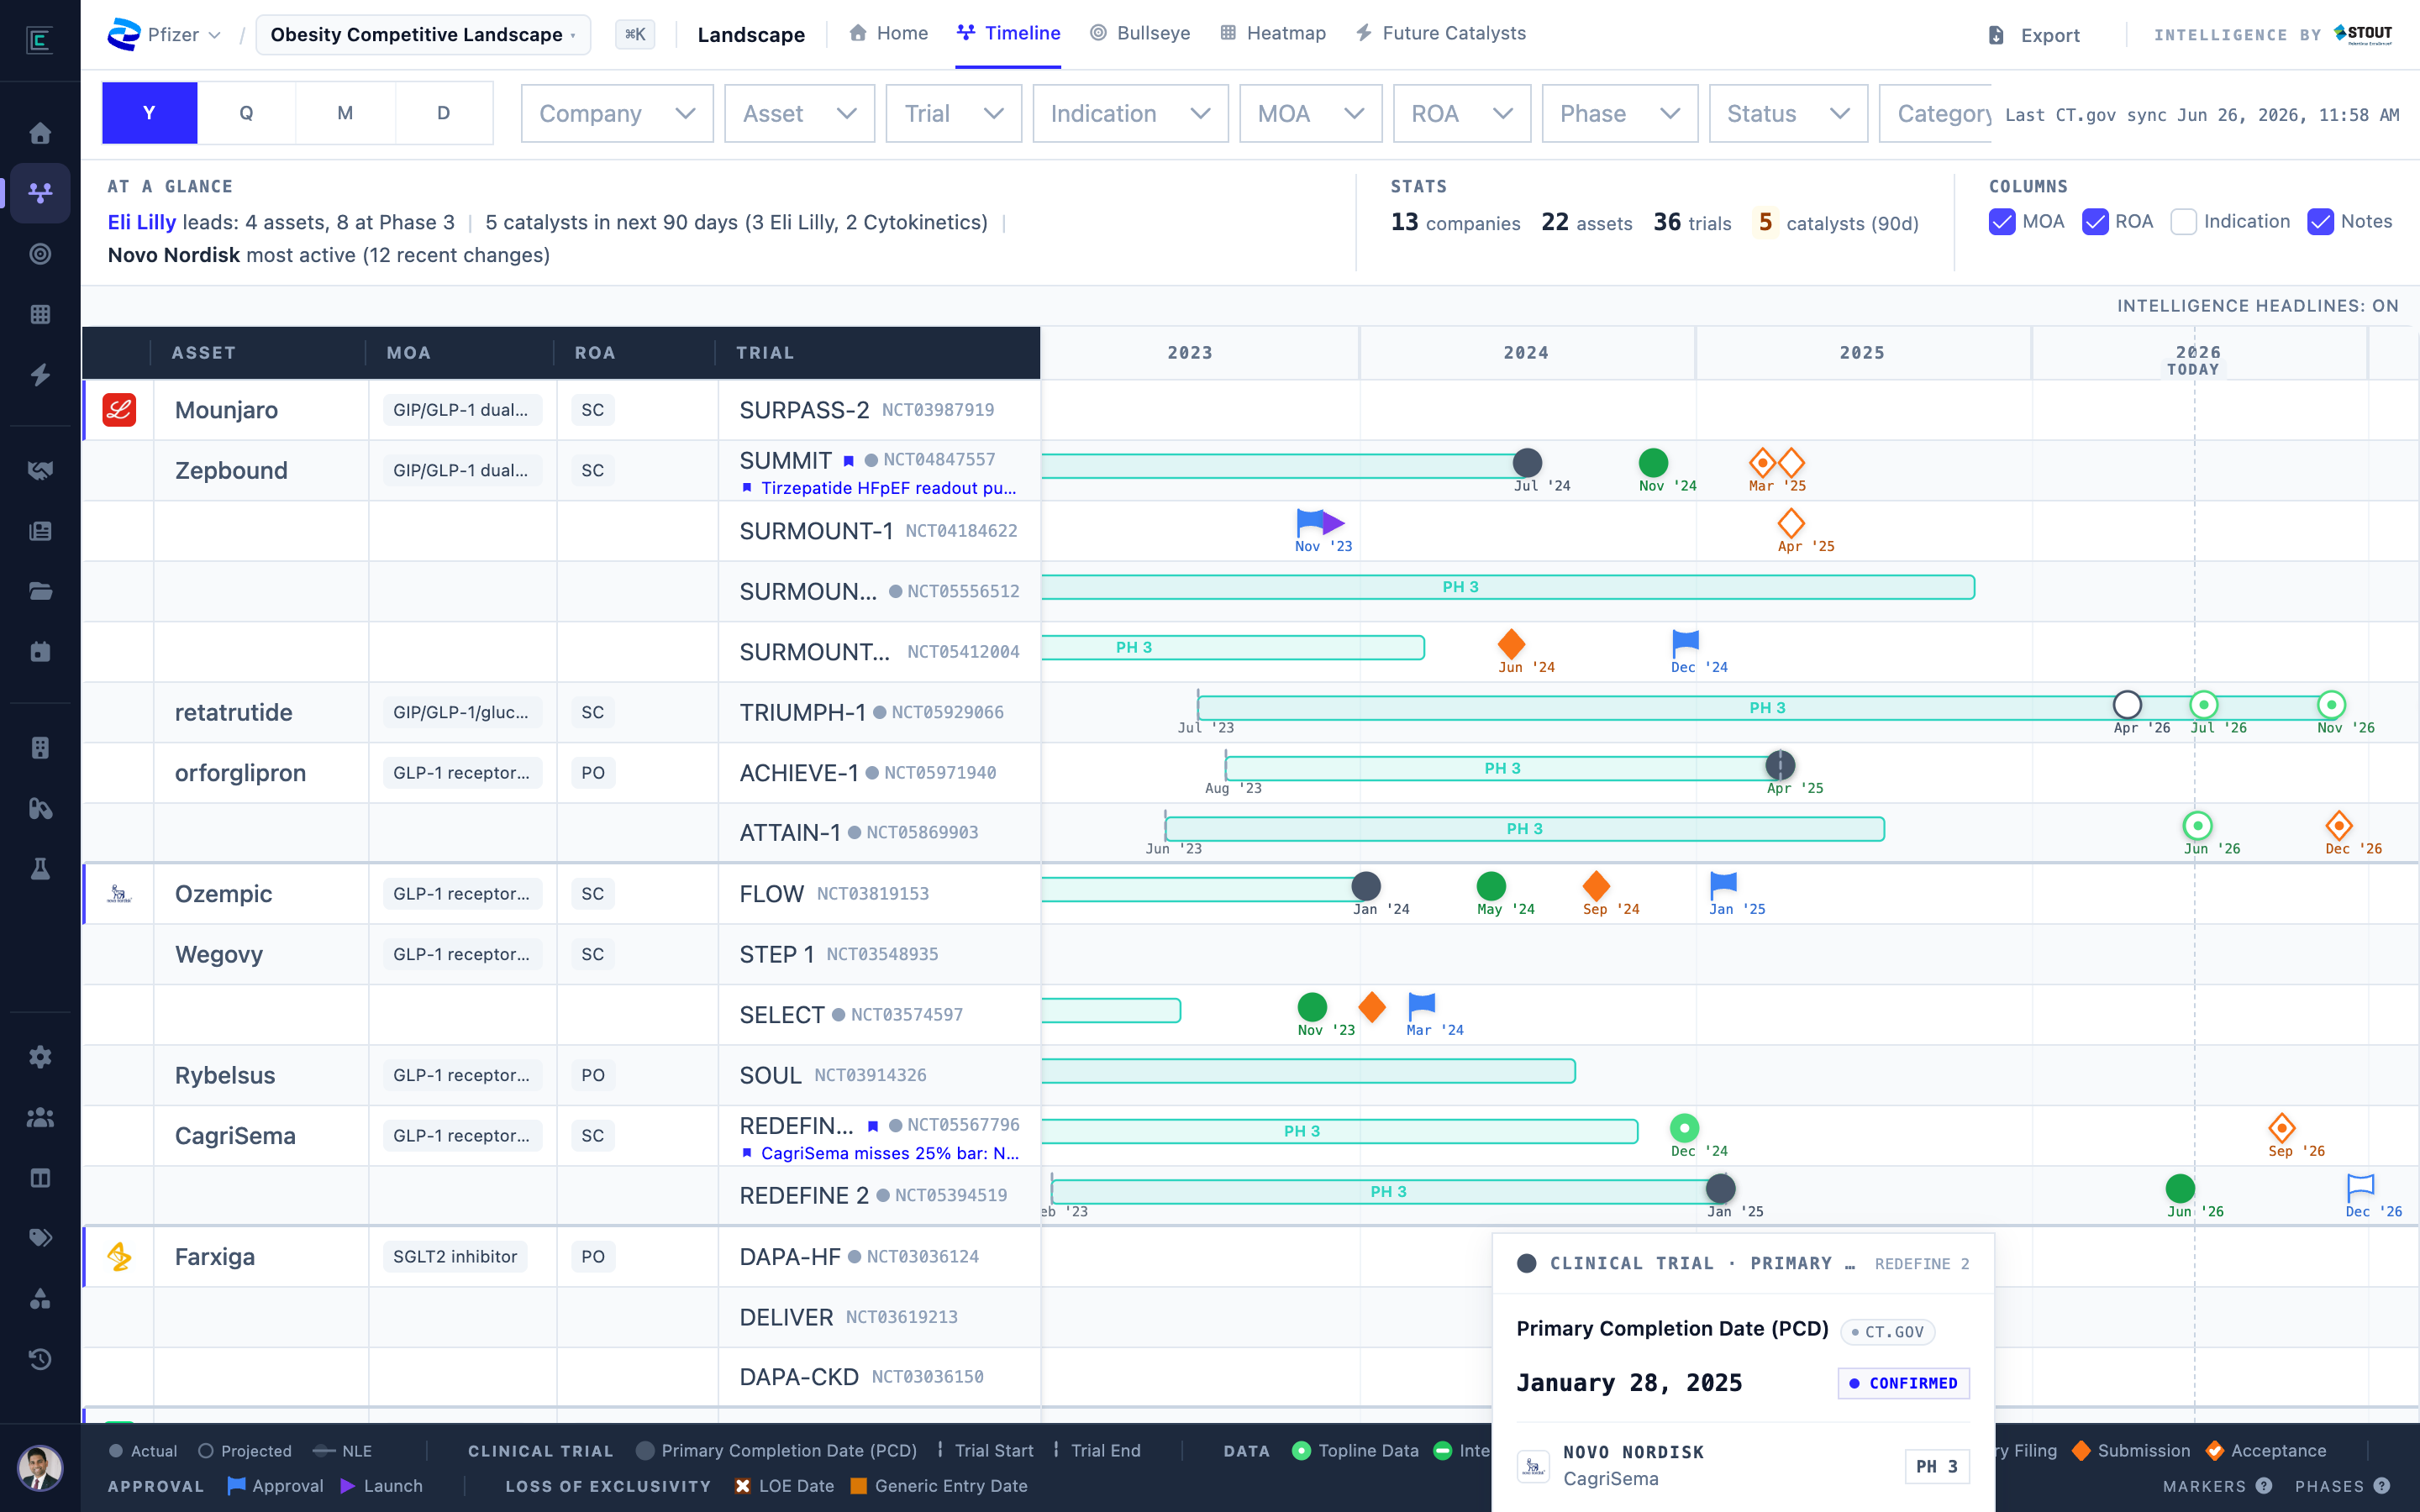
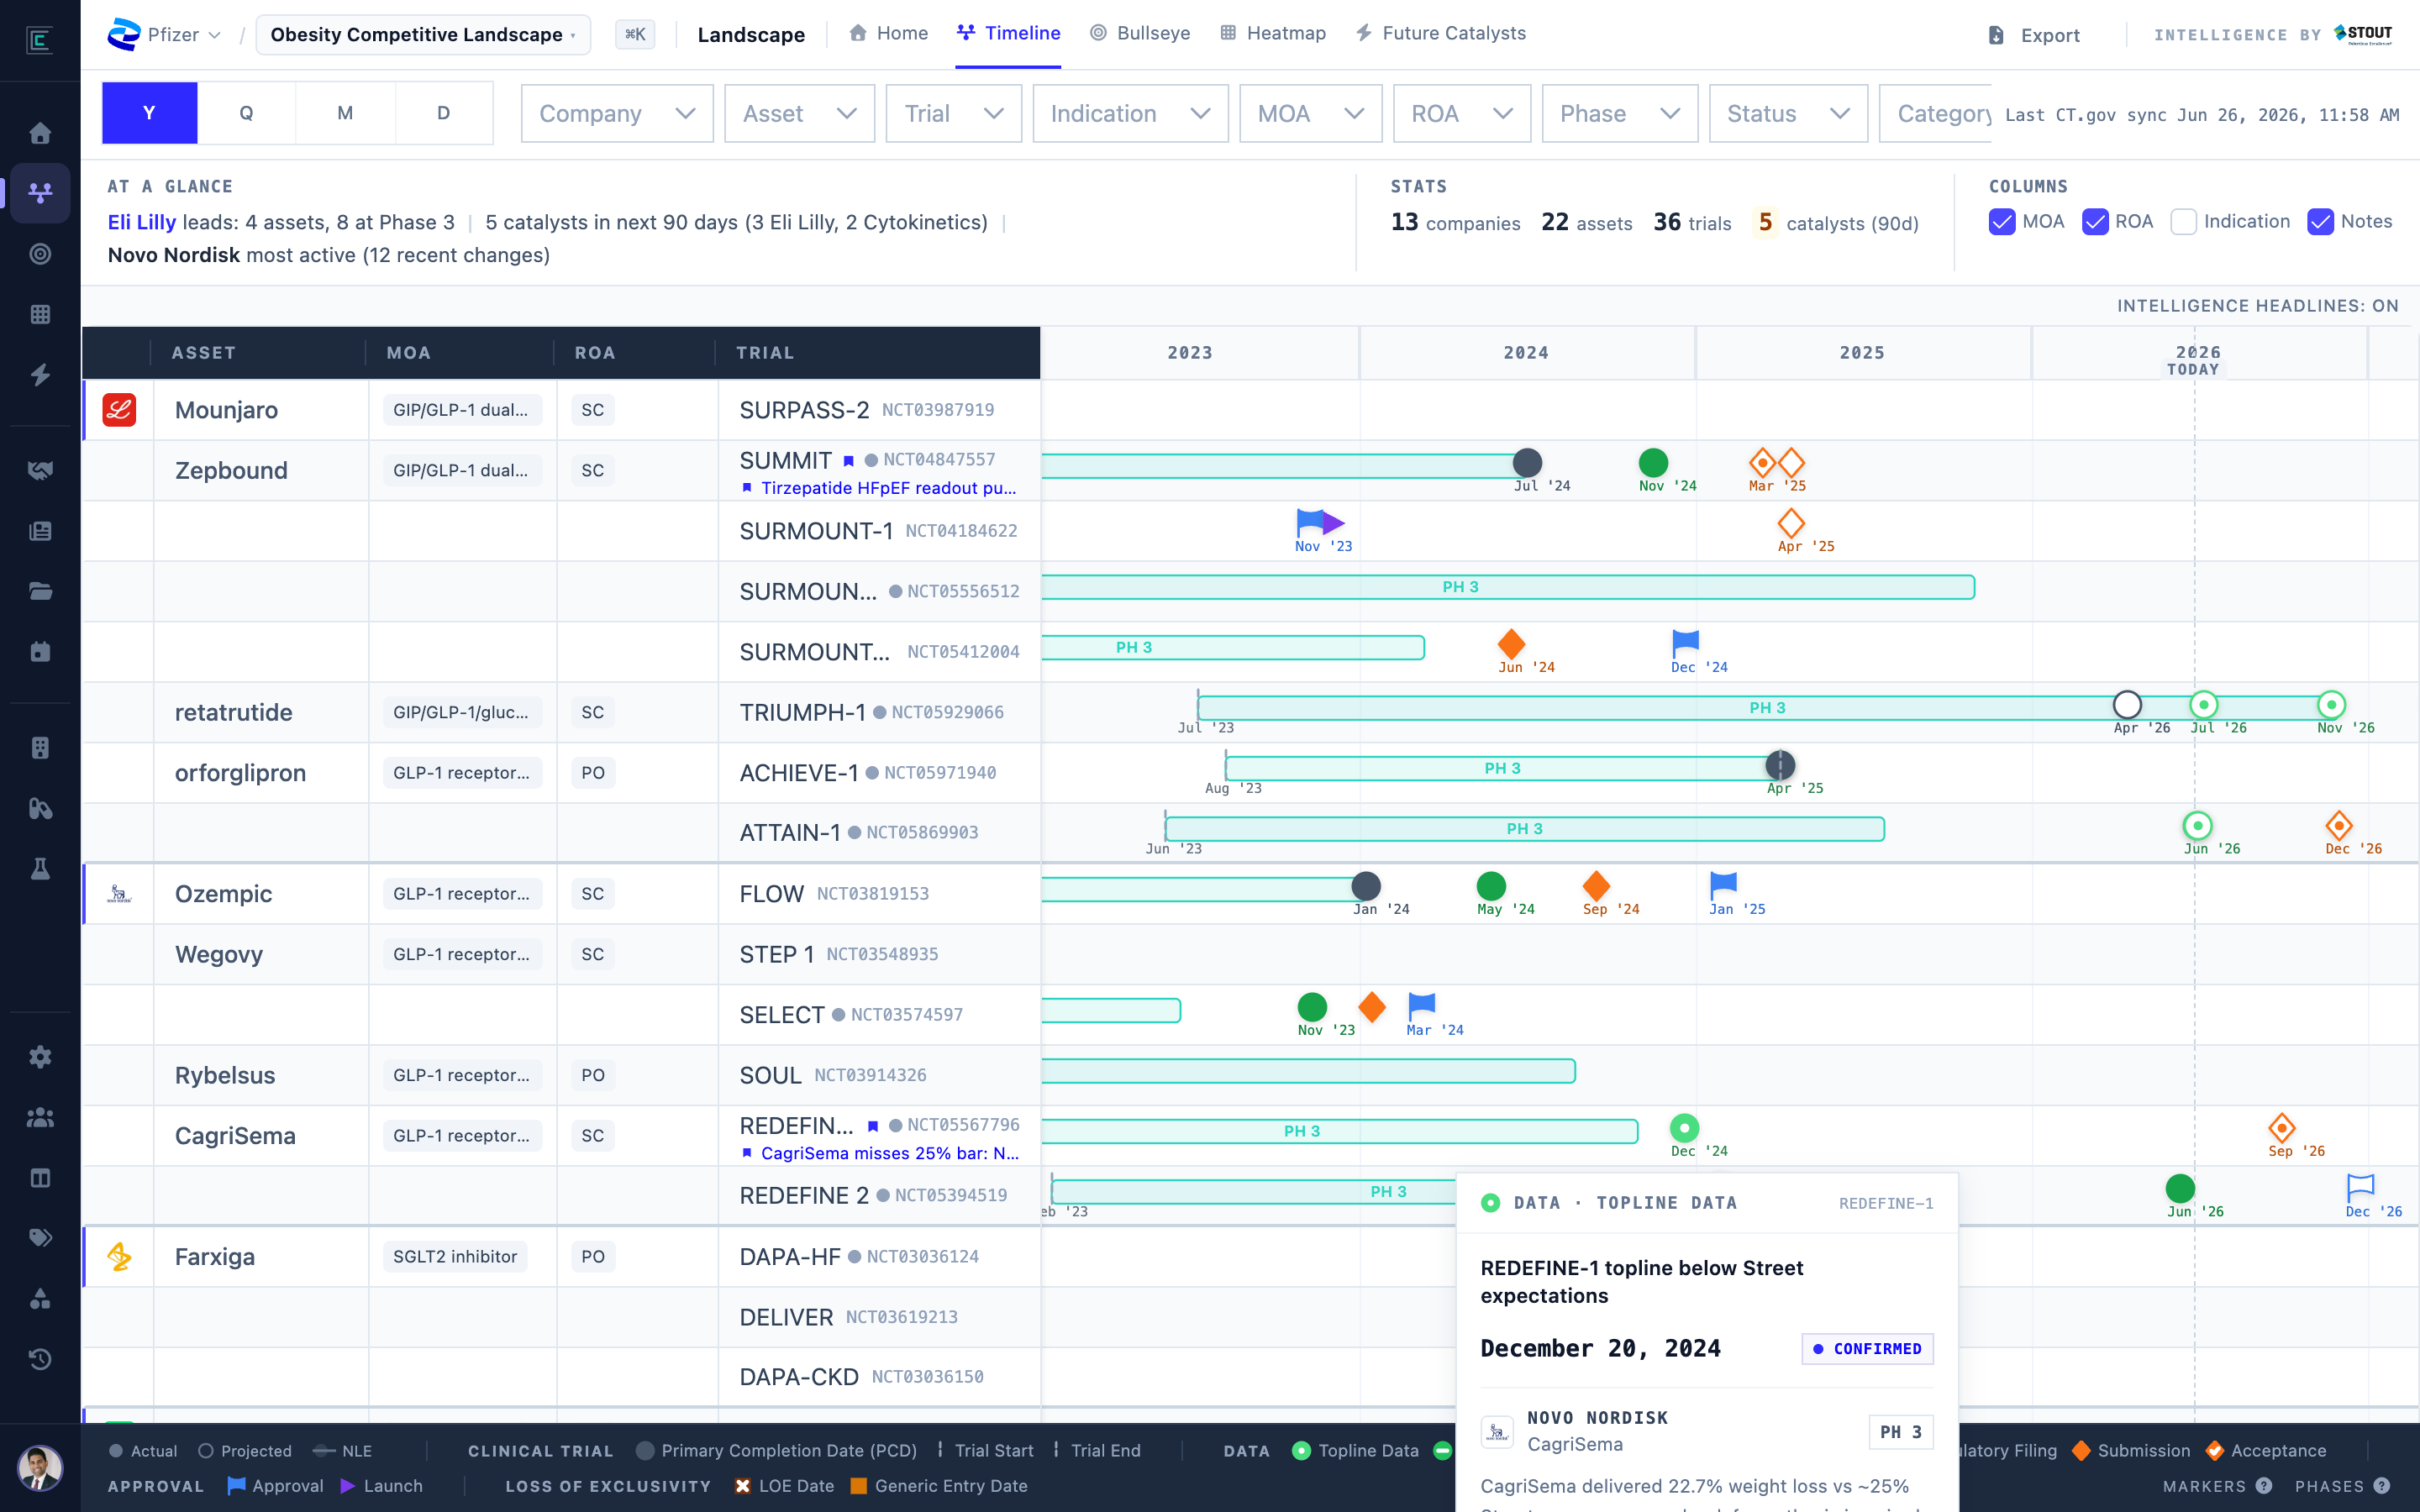
chore(deck): richer timeline tooltip + taller cover timeline band
- timeline: hover the REDEFINE-1 topline readout (description + competitive
  read) instead of a bare CT.gov milestone tooltip
- cover: show more of the timeline as a taller full-width band, drop the
  Prepared footer, and break the headline after the comma

Changed region(s): [[0.5938, 0.7778, 0.8438, 1.0], [0.7188, 0.9644, 0.75, 0.9956]]

diff --git a/src/client/public/internal/stout-intro.html b/src/client/public/internal/stout-intro.html
@@ -378,7 +378,7 @@
         display: flex;
         align-items: center;
         gap: 16px;
-        margin-bottom: 56px;
+        margin-bottom: 32px;
       }
       .cover .big-logo svg {
         width: 44px;
@@ -393,12 +393,12 @@
         text-transform: uppercase;
       }
       .cover h1 {
-        font-size: 56px;
+        font-size: 46px;
         font-weight: 700;
         color: var(--slate-900);
         line-height: 1.05;
         letter-spacing: -0.015em;
-        margin-bottom: 24px;
+        margin-bottom: 20px;
         max-width: 900px;
       }
       .cover h1 .accent {
@@ -486,7 +486,7 @@
         width: auto;
       }
       .cover-hero {
-        margin: 8px 0 40px;
+        margin: 8px 0 0;
         border: 1px solid var(--slate-200);
         background: white;
         border-radius: 14px;
@@ -497,7 +497,7 @@
         display: block;
         width: 100%;
         height: auto;
-        max-height: 320px;
+        max-height: 420px;
         object-fit: cover;
         object-position: top left;
       }
@@ -1553,17 +1553,14 @@
             </svg>
           </div>
           <h1>
-            Competitive pharma <span class="accent">intelligence</span>, published
-            <span class="accent">live</span> under <span class="accent">your brand</span>.
+            Competitive pharma <span class="accent">intelligence</span>,<br />
+            published <span class="accent">live</span> under <span class="accent">your brand</span>.
           </h1>
           <div class="cover-hero">
             <img
               src="img/timeline.png"
               alt="The timeline: every company's obesity and cardiometabolic programs laid out by year, phase bars behind dated markers for data, regulatory, approval, and launch. Filter, group, and zoom to read any slice of the field."
             />
-          </div>
-          <div class="footer-line">
-            <span>Prepared 2026-06-04</span>
           </div>
         </div>
       </section>